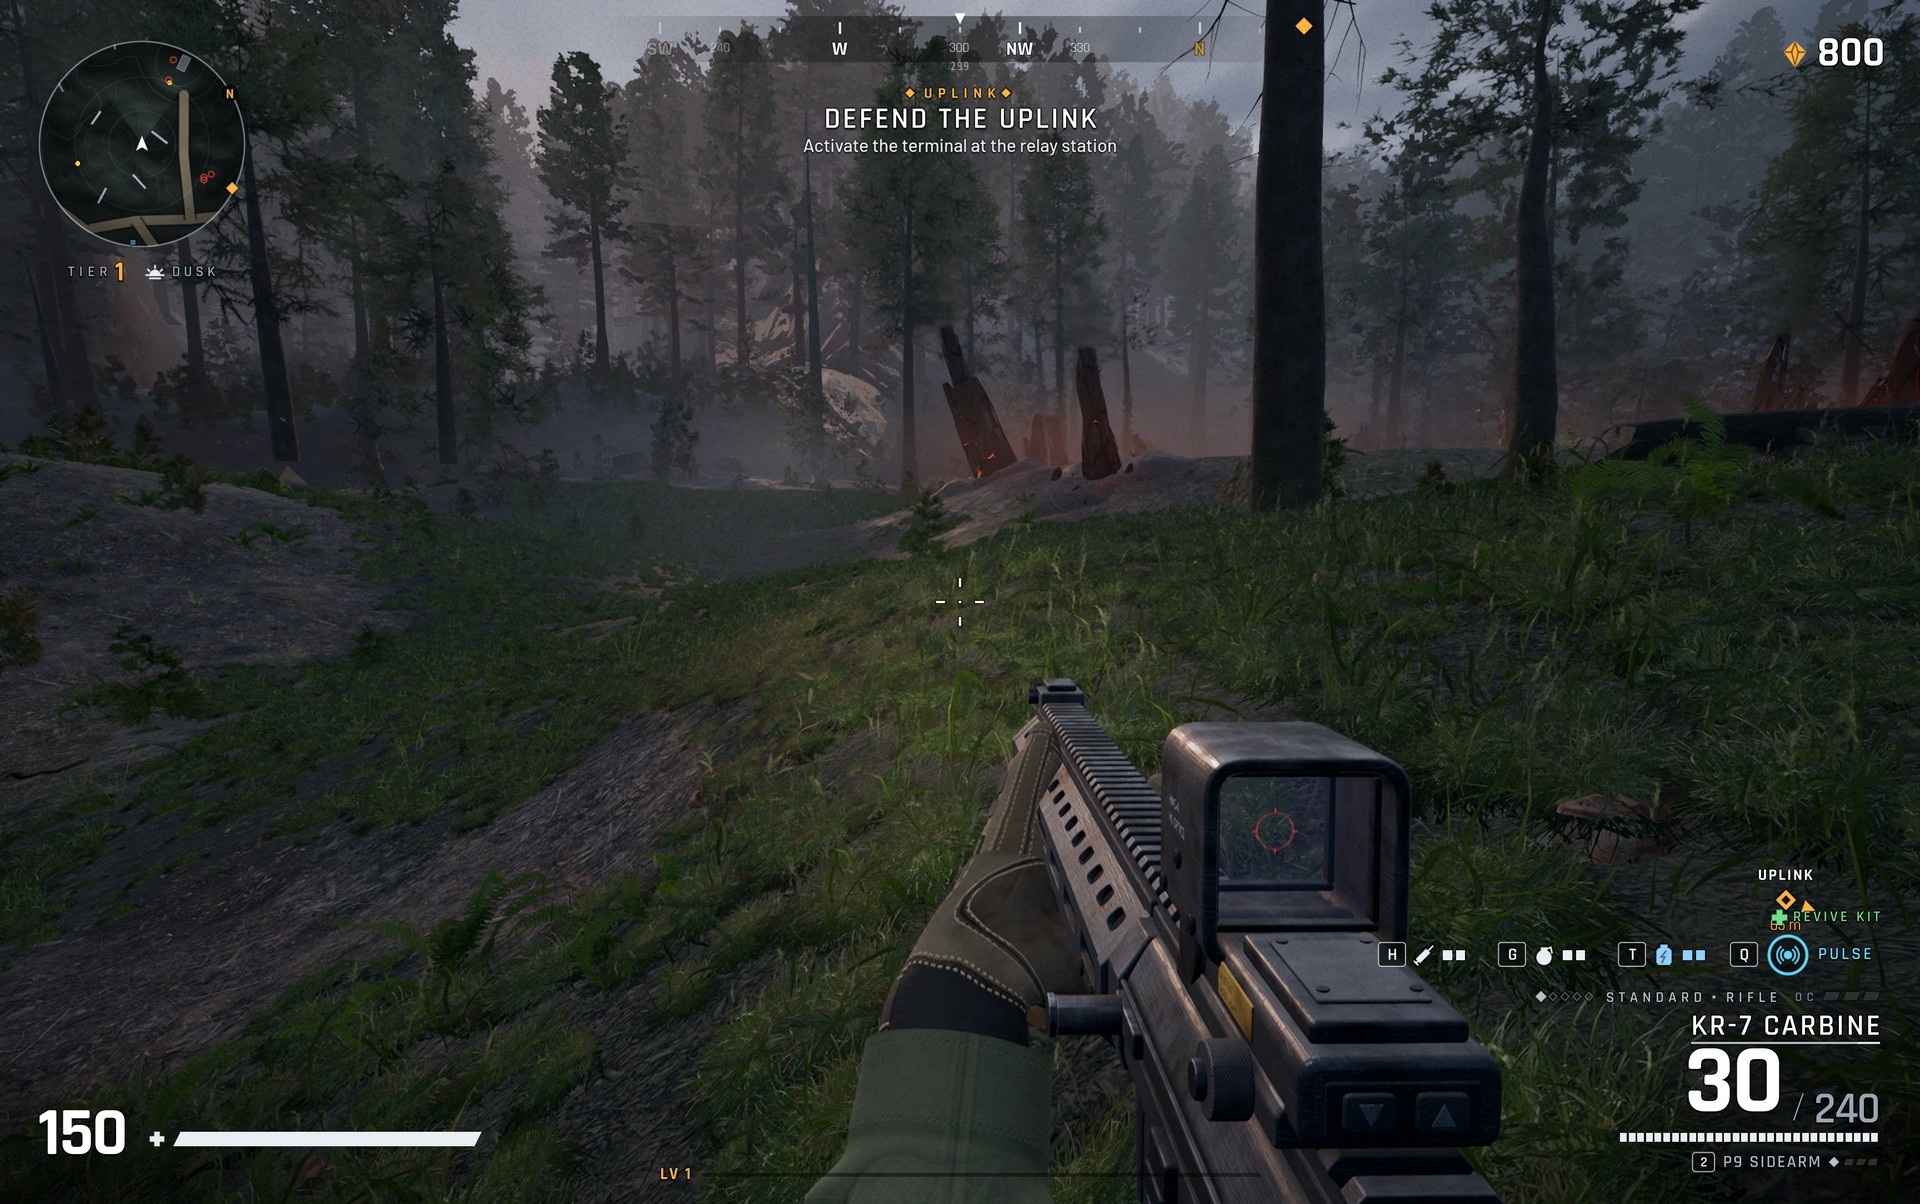
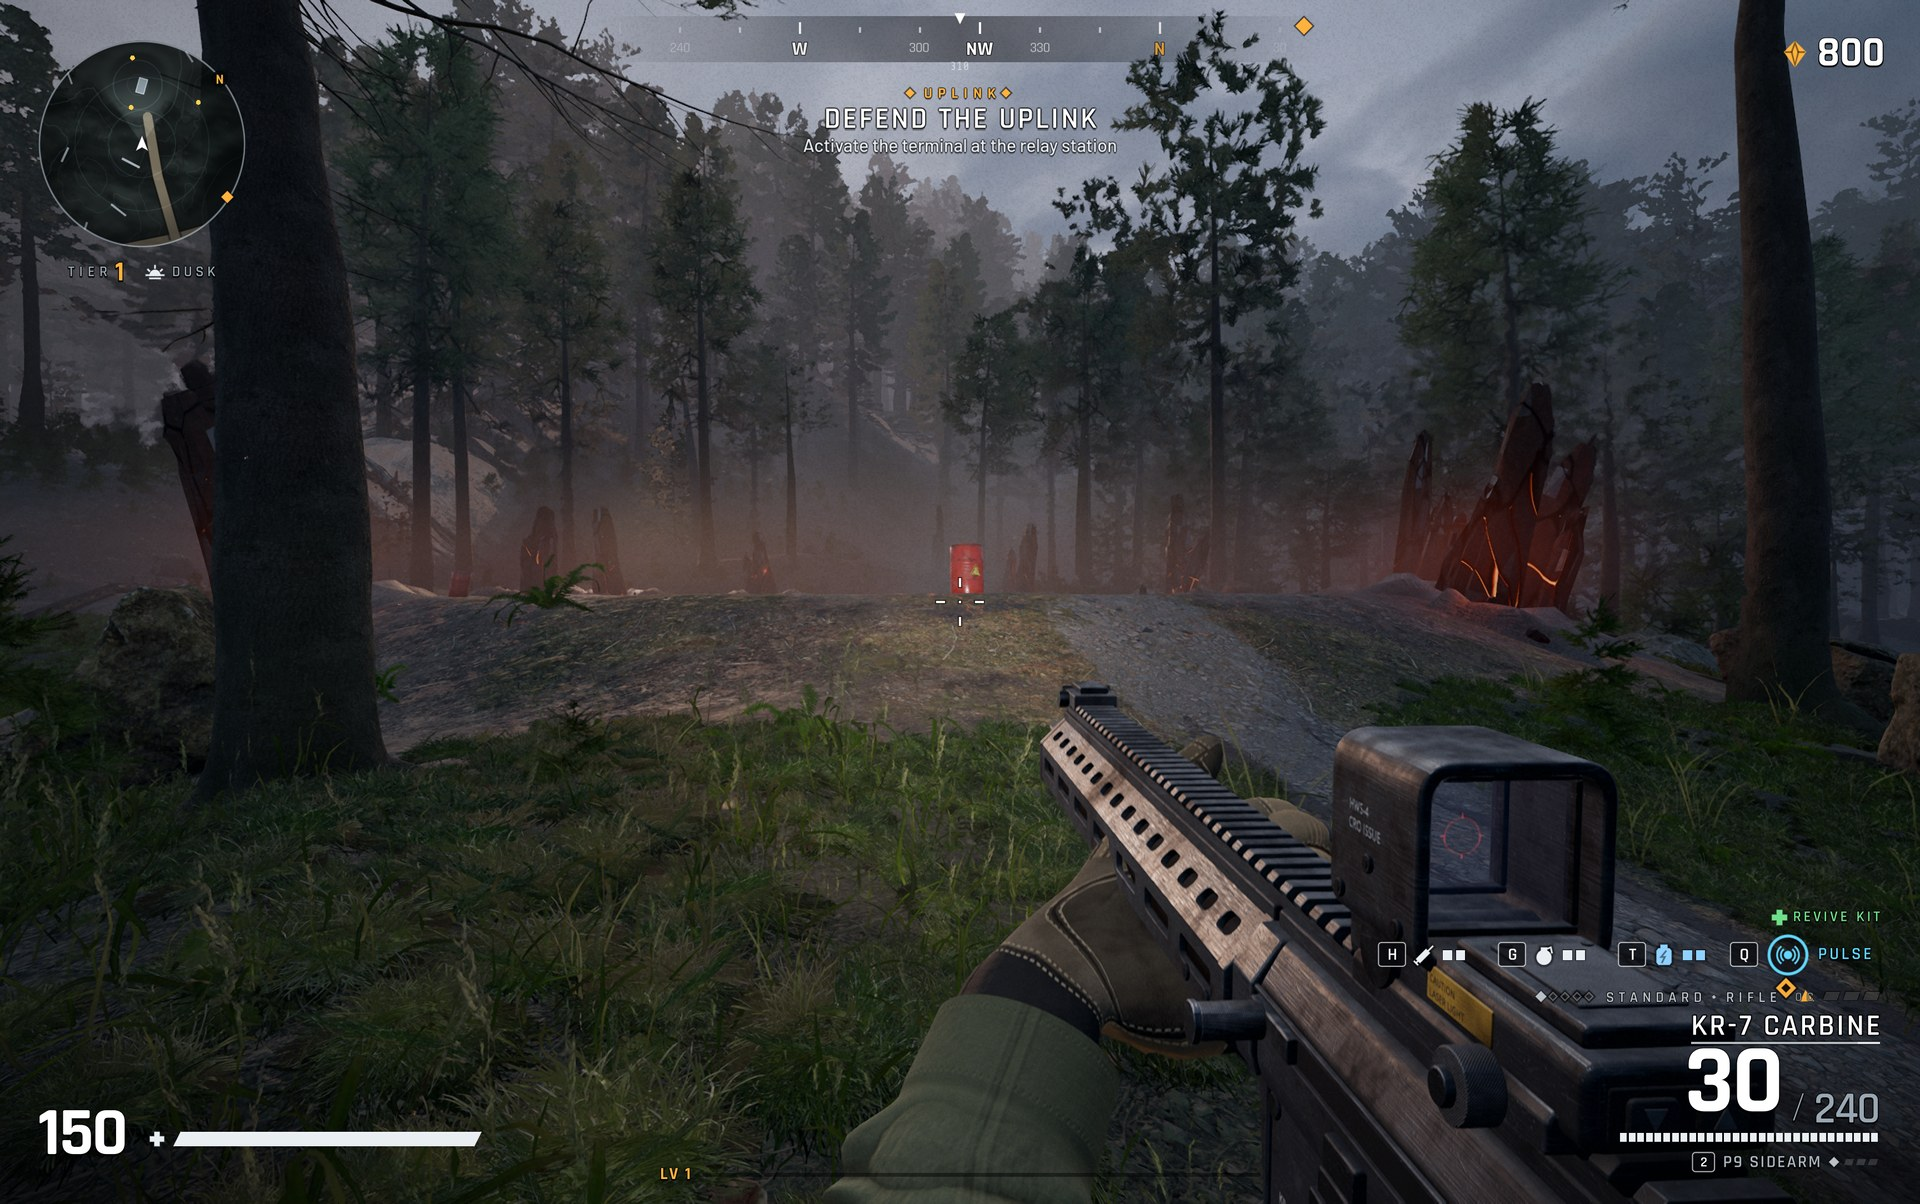
Static Relay 0.8.0: Head End, the story of the Line, new screenshots
The page for 0.8.0: a second zone (KR-12 Head End) with its whiteouts, the
story that now runs through both zones, screenshots from the release build,
and the credits for the new snow and ice sounds.

diff --git a/README.md b/README.md
@@ -1,7 +1,7 @@
 # STATIC RELAY
 
-**A co-op extraction shooter in a forest that has been taken over by machines. One to six operators drop in, do the
-job, and decide how far to push before they get out. Free. Mac and Windows.**
+**A co-op extraction shooter on a dead relay line that its own machines have taken over. One to six operators drop
+in, do the job, and decide how far to push before they get out. Free. Mac and Windows.**
 
 ![Static Relay - the menu](media/00_menu.jpg)
 
@@ -20,6 +20,34 @@ Both are on the [latest release](../../releases/latest). The Mac app is signed a
 signed yet: SmartScreen asks once - **More info**, then **Run anyway**. After the first install the game updates
 itself from the menu.
 
+## The Line
+
+The Karst Range Line is twelve unmanned relay stations across four hundred kilometres of wilderness. Eighteen months
+ago something came down along the range in a single night. The machines that maintained the Line stopped answering
+their owners and went on working. The relays still answer every call.
+
+You are contracted to the office that bought the wreck: drop by pod, raise a relay's uplink for a few minutes, strip
+what pays, and leave from the landing zone. The rates go up after dark. So does everything else.
+
+Every uplink you raise also decodes a fragment of the last maintenance crew's log - four people, twenty-four
+entries, kept in your Operator tab. Read in order, they are the story. And every upload ends with a second handshake
+that nobody on your side sent.
+
+## Two zones
+
+| | |
+|---|---|
+| **KR-07 The Valley** | Conifer forest around a relay yard, a bunker and a logging camp - and the place where the largest piece came down. |
+| **KR-12 Head End** | Above the treeline: snowfields under a wall of limestone, seven radio dishes, a cable-tram station, a camp that was left pitched. Aurora at night. **Whiteouts** cross the cirque: eight seconds of warning, then half a minute in which you see twelve metres. The machines do not hunt by sight. You fight by map, ping and sound. |
+
+Two more are planned: a quarry in autumn, and the coast.
+
+| | |
+|---|---|
+| ![Head End in the morning, from the drop point](media/07_head_end_morning.jpg) | ![The array at sunset](media/08_array_sunset.jpg) |
+| ![Crew Seven's camp at dusk](media/09_camp_dusk.jpg) | ![Aurora over the ridge](media/10_aurora_night.jpg) |
+| ![Inside a whiteout](media/11_whiteout.jpg) | ![The line log](media/12_line_log.jpg) |
+
 ## What you do
 
 - **Drop in, alone or with up to five friends.** One of you hosts from the menu; the others join over the local
@@ -33,6 +61,8 @@ itself from the menu.
   line of fire, Wasps overhead, and worse.
 - **Seven weapons** you can upgrade in the field with hardware that shows on the gun, an arc charge, a stim, a pulse.
 - **Side work** if you want it: a supply drop, a priority target, a rogue transmitter.
+- **A dispatcher on the radio.** Switch reads you the weather, the clock and the contract at every drop and at every
+  new tier. Something else is on the channel as well.
 
 ## Plays with what you have
 
@@ -53,11 +83,12 @@ itself from the menu.
 - **Mac:** macOS on Apple silicon or Intel with Metal. Developed against an M4 Max MacBook Pro.
 - **Windows:** Windows 10 or 11, 64-bit, a graphics card with Vulkan (or Direct3D 12). On integrated graphics (a
   handheld) it runs at reduced quality and resolution.
-- 2 GB of disk.
+- 2.5 GB of disk (the download is 1.3 GB).
 
 ## Honest notes
 
-This is a work in progress by a very small team. Known rough edges: the picture is softer than the HUD drawn over it,
+This is a work in progress by a very small team. Head End is new and has been played mostly by bots, and nobody has
+recorded the voices yet: every line of the story is text. Known rough edges: the picture is softer than the HUD drawn over it,
 some weapons and machines have had less attention than others, and balance has been tuned mostly by bots. On handheld
 PCs it runs at reduced quality: about 45-50 frames a second on a ROG Ally X at the settings the game picks for it. If something
 breaks or looks wrong, [open an issue](../../issues) - a screenshot and what you were doing is plenty.

diff --git a/CREDITS.md b/CREDITS.md
@@ -64,6 +64,12 @@ No attribution is required for any of them; they are credited here anyway.
 | BigSoundBank (Joseph Sardin) | Tawny Owl #2 | CC0 1.0 | https://bigsoundbank.com/s1764.html | https://bigsoundbank.com/UPLOAD/ogg/1764.ogg | amb_owl one-shots |
 | BigSoundBank (Joseph Sardin) | Tawny Owl #3 | CC0 1.0 | https://bigsoundbank.com/s3459.html | https://bigsoundbank.com/UPLOAD/ogg/3459.ogg | amb_owl one-shots |
 | BigSoundBank (Joseph Sardin) | Tawny Owl #4 | CC0 1.0 | https://bigsoundbank.com/s3460.html | https://bigsoundbank.com/UPLOAD/ogg/3460.ogg | amb_owl one-shots |
+| BigSoundBank (Joseph Sardin) | Footstep in the Snow #1 | CC0 1.0 | https://bigsoundbank.com/s0208.html | https://bigsoundbank.com/UPLOAD/ogg/0208.ogg | footstep_snow / land_snow |
+| BigSoundBank (Joseph Sardin) | Footstep in the Snow #2 | CC0 1.0 | https://bigsoundbank.com/s2890.html | https://bigsoundbank.com/UPLOAD/ogg/2890.ogg | footstep_snow / land_snow |
+| BigSoundBank (Joseph Sardin) | Steps in the snow #3 | CC0 1.0 | https://bigsoundbank.com/s3363.html | https://bigsoundbank.com/UPLOAD/ogg/3363.ogg | footstep_snow (running) |
+| BigSoundBank (Joseph Sardin) | Cracking ice #1 | CC0 1.0 | https://bigsoundbank.com/s2205.html | https://bigsoundbank.com/UPLOAD/ogg/2205.ogg | impact_ice / footstep_ice crackle |
+| BigSoundBank (Joseph Sardin) | Cracking ice #2 | CC0 1.0 | https://bigsoundbank.com/s2206.html | https://bigsoundbank.com/UPLOAD/ogg/2206.ogg | impact_ice / footstep_ice crackle |
+| BigSoundBank (Joseph Sardin) | Cracking ice #4 | CC0 1.0 | https://bigsoundbank.com/s2208.html | https://bigsoundbank.com/UPLOAD/ogg/2208.ogg | impact_ice / footstep_ice crackle |
 | OpenGameArt (rubberduck) | 100-cc0-metal-and-wood-sfx | CC0 1.0 | https://opengameart.org/content/100-cc0-metal-and-wood-sfx | https://opengameart.org/sites/default/files/100-CC0-wood-metal-SFX.zip | impact_metal / impact_wood / footstep_metal / mechanical foley / melee_hit / melee_thud |
 | OpenGameArt (rubberduck) | 75-cc0-breaking-falling-hit-sfx | CC0 1.0 | https://opengameart.org/content/75-cc0-breaking-falling-hit-sfx | https://opengameart.org/sites/default/files/sfx_breaking_and_falling.zip | impact_concrete / impact_rock / debris / melee_hit / melee_thud |
 | OpenGameArt (rubberduck) | 25-cc0-bang-firework-sfx | CC0 1.0 | https://opengameart.org/content/25-cc0-bang-firework-sfx | https://opengameart.org/sites/default/files/25-CC0-bang-sfx.zip | explosion / gunshot crack layers |
